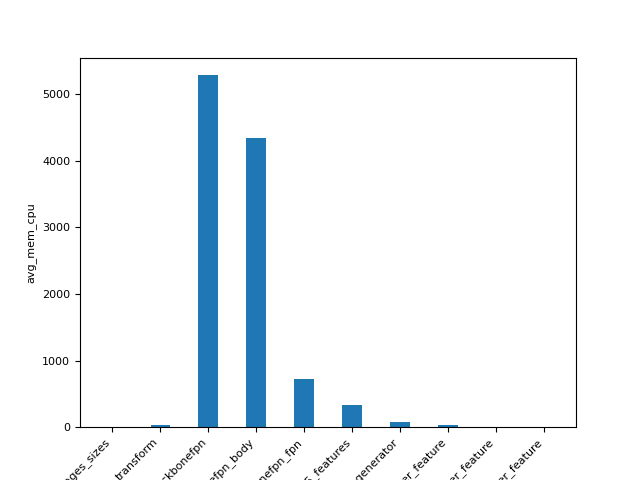
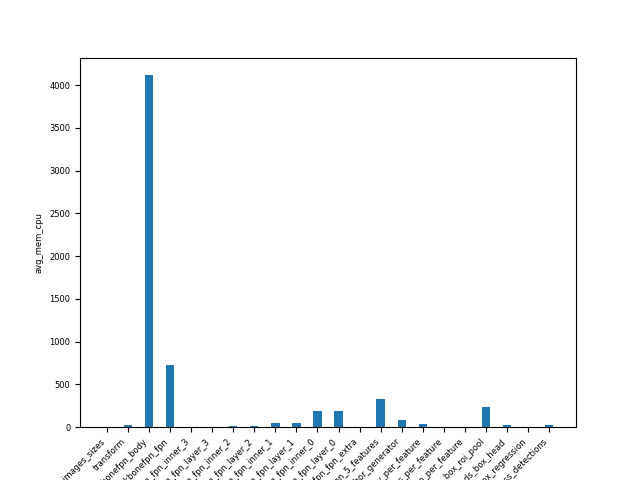
fix backbonefpn bugs; roi high level

diff --git a/faster-rcnn.py b/faster-rcnn.py
@@ -3,6 +3,7 @@ import torch
 from torch import nn
 from torch.profiler import profile, record_function, ProfilerActivity
 import torchvision
+from collections import OrderedDict
 
 from timer import Clock
 from memorizer import MemRec
@@ -13,12 +14,16 @@ usingcuda = device == "cuda:0"
 tt = Clock()
 mr = MemRec()
 
-from torchvision.models.detection.backbone_utils import _validate_trainable_layers
+import torch.nn.functional as F
+
 from torchvision.ops import misc as misc_nn_ops
-from torchvision.models._utils import IntermediateLayerGetter
 from torchvision.ops.feature_pyramid_network import LastLevelMaxPool, FeaturePyramidNetwork
+from torchvision.ops.poolers import MultiScaleRoIAlign
+from torchvision.models._utils import IntermediateLayerGetter
+from torchvision.models.detection.backbone_utils import _validate_trainable_layers
 from torchvision.models.detection.anchor_utils import AnchorGenerator
 from torchvision.models.detection.rpn import RPNHead, concat_box_prediction_layers
+from torchvision.models.detection.faster_rcnn import TwoMLPHead, FastRCNNPredictor
 
 
 def _default_anchorgen():
@@ -31,10 +36,14 @@ class Profiler():
     def __init__(self):
         super().__init__()
         self.model = torchvision.models.detection.fasterrcnn_resnet50_fpn(pretrained=True).eval().to(device)
+        # self.backbone = torchvision.models.resnet50(
+        #     pretrained=True, progress=True, norm_layer=misc_nn_ops.FrozenBatchNorm2d
+        # )  # FAKE
         self.images = torch.rand(1, 3, 224, 224).to(device)
         self.targets = None
         self.args = {}
-        self.mem = False
+        self.mem = False  # spliting up time and mem profiling to avoid doublewriting args
+        self.backonefpn = None
 
     def _profile_helper(self, func, name):
         if not self.mem:
@@ -73,76 +82,106 @@ class Profiler():
     def transform(self):
         self.images, self.targets = self.model.transform(self.images, self.targets)
 
-    def backbonefpn(self):
-        # backbonefpn_body |FAKE| setup
-        backbone = torchvision.models.resnet50(
-            pretrained=True, progress=True, norm_layer=misc_nn_ops.FrozenBatchNorm2d
-        )
-        returned_layers = [1, 2, 3, 4]
-        return_layers = {f"layer{k}": str(v) for v, k in enumerate(returned_layers)}
-        backbonefpn_body = IntermediateLayerGetter(backbone, return_layers=return_layers)
-        # forward
-        self.args["x"] = backbonefpn_body(self.images.tensors)
-
-        # backbone_fpn setup 
-        in_channels_stage2 = backbone.inplanes // 8
-        in_channels_list = [in_channels_stage2 * 2 ** (i - 1) for i in returned_layers]
-        out_channels = 256
-        extra_blocks = LastLevelMaxPool()
-        backbonefpn_fpn = FeaturePyramidNetwork(
-            in_channels_list=in_channels_list,
-            out_channels=out_channels,
-            extra_blocks=extra_blocks,
-        )
-        # forward
-        self.args["features"] = backbonefpn_fpn(self.args["x"])
-        # feature_ list setup
-        self.args["features_"] = list(self.args["features"].values())
-        
-        # self.args["features"] = model.backbone(self.images.tensors)
-        # self.args["features_"] = list(model.backbone(self.images.tensors).values())
-
     def backbonefpn_details(self):
-        # backbonefpn_body |FAKE| setup
-        backbone = torchvision.models.resnet50(
-            pretrained=True, progress=True, norm_layer=misc_nn_ops.FrozenBatchNorm2d
-        )
-        returned_layers = [1, 2, 3, 4]
-        return_layers = {f"layer{k}": str(v) for v, k in enumerate(returned_layers)}
-        backbonefpn_body = IntermediateLayerGetter(backbone, return_layers=return_layers)
+        # backbonefpn_body setup
+        backbonefpn_body = self.model.backbone.body
         # forward
         def _backbonefpn_body():
             self.args["x"] = backbonefpn_body(self.images.tensors)
         self._profile_helper(_backbonefpn_body, "backbonefpn_body")
 
-        # backbone_fpn setup 
-        in_channels_stage2 = backbone.inplanes // 8
-        in_channels_list = [in_channels_stage2 * 2 ** (i - 1) for i in returned_layers]
-        out_channels = 256
-        extra_blocks = LastLevelMaxPool()
-        backbonefpn_fpn = FeaturePyramidNetwork(
-            in_channels_list=in_channels_list,
-            out_channels=out_channels,
-            extra_blocks=extra_blocks,
-        )
+        # backbonefpn_fpn setup 
+        backbonefpn_fpn = self.model.backbone.fpn
         # forward
         def _backbonefpn_fpn():
             self.args["features"] = backbonefpn_fpn(self.args["x"])
         self._profile_helper(_backbonefpn_fpn, "backbonefpn_fpn")
+
         # feature_ list setup
         self.args["features_"] = list(self.args["features"].values())
         
         # self.args["features"] = model.backbone(self.images.tensors)
         # self.args["features_"] = list(model.backbone(self.images.tensors).values())
 
-    def backbonefpn_fpn_details():
-        pass
+    def backbonefpn_fpn_details(self):
+        """The aim of this function is to prevent nested profiling when profiling memory."""
+        # backbonefpn_body setup 
+        # backbone = self.backbone
+        # returned_layers = [1, 2, 3, 4]
+        # return_layers = {f"layer{k}": str(v) for v, k in enumerate(returned_layers)}
+        # # backbonefpn_body = IntermediateLayerGetter(backbone, return_layers=return_layers)
+
+        # # backbonefpn_fpn params 
+        # in_channels_stage2 = backbone.inplanes // 8
+        # in_channels_list = [in_channels_stage2 * 2 ** (i - 1) for i in returned_layers]
+        # out_channels = 256
+        # extra_blocks = LastLevelMaxPool()
+        # # backbonefpn_fpn setup for blocks
+        # backbonefpn_fpn = FeaturePyramidNetwork(
+        #     in_channels_list=in_channels_list,
+        #     out_channels=out_channels,
+        #     extra_blocks=extra_blocks,
+        # )
+        backbonefpn_fpn = self.model.backbone.fpn
+
+        def get_result_from_inner_blocks(x, idx):
+            num_blocks = len(backbonefpn_fpn.inner_blocks)
+            if idx < 0:
+                idx += num_blocks
+            out = x
+            for i, module in enumerate(backbonefpn_fpn.inner_blocks):
+                if i == idx:
+                    # print(i, module)
+                    def _inner():
+                        module(x)
+                    self._profile_helper(_inner, "backbonefpn_fpn_inner_{}".format(i))
+                    out = module(x)
+            return out
+
+        def get_result_from_layer_blocks(x, idx):
+            num_blocks = len(backbonefpn_fpn.layer_blocks)
+            if idx < 0:
+                idx += num_blocks
+            out = x
+            for i, module in enumerate(backbonefpn_fpn.layer_blocks):
+                if i == idx:
+                    # print(i, module)
+                    def _layer():
+                        module(x)
+                    self._profile_helper(_layer, "backbonefpn_fpn_layer_{}".format(i))
+                    out = module(x)
+            return out
+        
+        # forward
+        x = self.args["x"]
+        names = list(x.keys())
+        x = list(x.values())
+
+        last_inner = get_result_from_inner_blocks(x[-1], -1)
+        results = []
+        results.append(get_result_from_layer_blocks(last_inner, -1))
+
+        for idx in range(len(x) - 2, -1, -1):
+            inner_lateral = get_result_from_inner_blocks(x[idx], idx)
+            feat_shape = inner_lateral.shape[-2:]
+            inner_top_down = F.interpolate(last_inner, size=feat_shape, mode="nearest")
+            last_inner = inner_lateral + inner_top_down
+            results.insert(0, get_result_from_layer_blocks(last_inner, idx))
+
+        # extra layer
+        if backbonefpn_fpn.extra_blocks is not None:
+            names.append("pool")
+            def _extra():
+                x.append(F.max_pool2d(x[-1], 1, 2, 0))
+            self._profile_helper(_extra, "backbonefpn_fpn_extra")
+            results = x
+
+        out = OrderedDict([(k, v) for k, v in zip(names, results)])
+
 
     def rpn_head(self):
         # RPNHead setup
-        out_channels = self.model.backbone.out_channels
-        rpn_anchor_generator = _default_anchorgen()
-        rpn_head = RPNHead(out_channels, rpn_anchor_generator.num_anchors_per_location()[0])
+        rpn_head = self.model.rpn.head
         # forward
         logits = []
         bbox_reg = []
@@ -155,9 +194,10 @@ class Profiler():
 
     def rpn_head_details(self):
         # RPNHead initialization
-        out_channels = self.model.backbone.out_channels
-        rpn_anchor_generator = _default_anchorgen()
-        rpn_head = RPNHead(out_channels, rpn_anchor_generator.num_anchors_per_location()[0])
+        # out_channels = self.model.backbone.out_channels
+        # rpn_anchor_generator = _default_anchorgen()
+        # rpn_head = RPNHead(out_channels, rpn_anchor_generator.num_anchors_per_location()[0])
+        rpn_head = self.model.rpn.head
         # forward
         logits = []
         bbox_reg = []
@@ -196,17 +236,78 @@ class Profiler():
         boxes, scores = model.rpn.filter_proposals(proposals, self.args["objectness"], self.images.image_sizes, num_anchors_per_level)
         self.args["proposals"], self.args["proposal_losses"] = boxes, scores
 
+    def roi_heads(self):
+        self.args["detections"], self.args["detector_losses"] = self.model.roi_heads(
+           self.args["features"], self.args["proposals"], self.images.image_sizes, self.targets
+        )
+
+    def roi_heads_details(self):
+        # initialize
+        # box_roi_pool = MultiScaleRoIAlign(featmap_names=["0", "1", "2", "3"], output_size=7, sampling_ratio=2)
+        # out_channels = out_channels
+        # resolution = box_roi_pool.output_size[0]  # (output_size=7) -> output_size=(7, 7)
+        # representation_size = 1024
+        # box_head = TwoMLPHead(out_channels * resolution ** 2, representation_size)
+        # representation_size = 1024
+        # num_classes = 91  # by default
+        # box_predictor = FastRCNNPredictor(representation_size, num_classes)
+
+        box_roi_pool = self.model.roi_heads.box_roi_pool
+        box_head = self.model.roi_heads.box_head
+        box_predictor = self.model.roi_heads.box_predictor
+
+        image_shapes = self.images.image_sizes
+
+        def _box_roi_pool():
+            box_roi_pool(self.args["features"], self.args["proposals"], self.images.image_sizes)
+        self._profile_helper(_box_roi_pool, "roi_heads_box_roi_pool")
+        box_features = box_roi_pool(self.args["features"], self.args["proposals"], self.images.image_sizes)
+
+        def _box_head():
+            box_head(box_features)
+        self._profile_helper(_box_head, "roi_heads_box_head")
+        box_features = box_head(box_features)
+
+        def _box_predictor():
+            box_predictor(box_features)
+        self._profile_helper(_box_predictor, "roi_heads_box_predictor")
+        class_logits, box_regression = box_predictor(box_features)
+
+        def _postprocess_detections():
+            self.model.roi_heads.postprocess_detections(class_logits, box_regression, self.args["proposals"], self.images.image_sizes)
+        self._profile_helper(_postprocess_detections, "roi_heads_postprocess_detections")
+        boxes, scores, labels = self.model.roi_heads.postprocess_detections(class_logits, box_regression, self.args["proposals"], self.images.image_sizes)
+
+        # in per image inferences, num_images = 0, thus takes VERY small time/mem
+        result = []
+        losses = {}
+        num_images = len(boxes)
+        for i in range(num_images):
+            result.append(
+                {
+                    "boxes": boxes[i],
+                    "labels": labels[i],
+                    "scores": scores[i],
+                }
+            )
+
+        self.args["detections"], self.args["detector_losses"] = result, losses
+
+
     def faster_rcnn_simulation(self):
 
         self._profile_helper(self.get_original_images_sizes, "get_original_images_sizes")
         self._profile_helper(self.transform, "transform")
-        self._profile_helper(self.backbonefpn, "backbonefpn") 
-        self.backbonefpn_details()
-        # self.backbonefpn_fpn_details()  # uncomment to reveal details
-        self._profile_helper(self.rpn_head, "rpn_head_on_{}_features".format(len(self.args["features_"])))
-        self._profile_helper(self.rpn_anchor_generator, "rpn_anchor_generator")
-        self.rpn_head_details()  # uncomment to reveal details
 
+        self.backbonefpn_details()
+        self.backbonefpn_fpn_details()  # uncomment to reveal details
+
+        self._profile_helper(self.rpn_head, "rpn_head_on_{}_features".format(len(self.args["features_"])))
+        self.rpn_head_details()  # uncomment to reveal details
+        self._profile_helper(self.rpn_anchor_generator, "rpn_anchor_generator")
+
+        self._profile_helper(self.roi_heads, "roi_heads")
+        self.roi_heads_details()  #uncomment to reveal details
         
 
 

diff --git a/timer.py b/timer.py
@@ -1,7 +1,7 @@
 import time
 import matplotlib.pyplot as plt
 
-plt.rcParams['font.size'] = 8
+plt.rcParams['font.size'] = 6
 
 class Clock(object):
     def __init__(self):
@@ -38,6 +38,6 @@ class Clock(object):
         plt.bar(layernames, avg_times, width=0.4)
         
         plt.xlabel("layernames")
-        plt.xticks(rotation=45, ha="right")
+        plt.xticks(rotation=30, ha="right")
         plt.ylabel("avg_times")
         plt.savefig("layer-avg_time.png")
